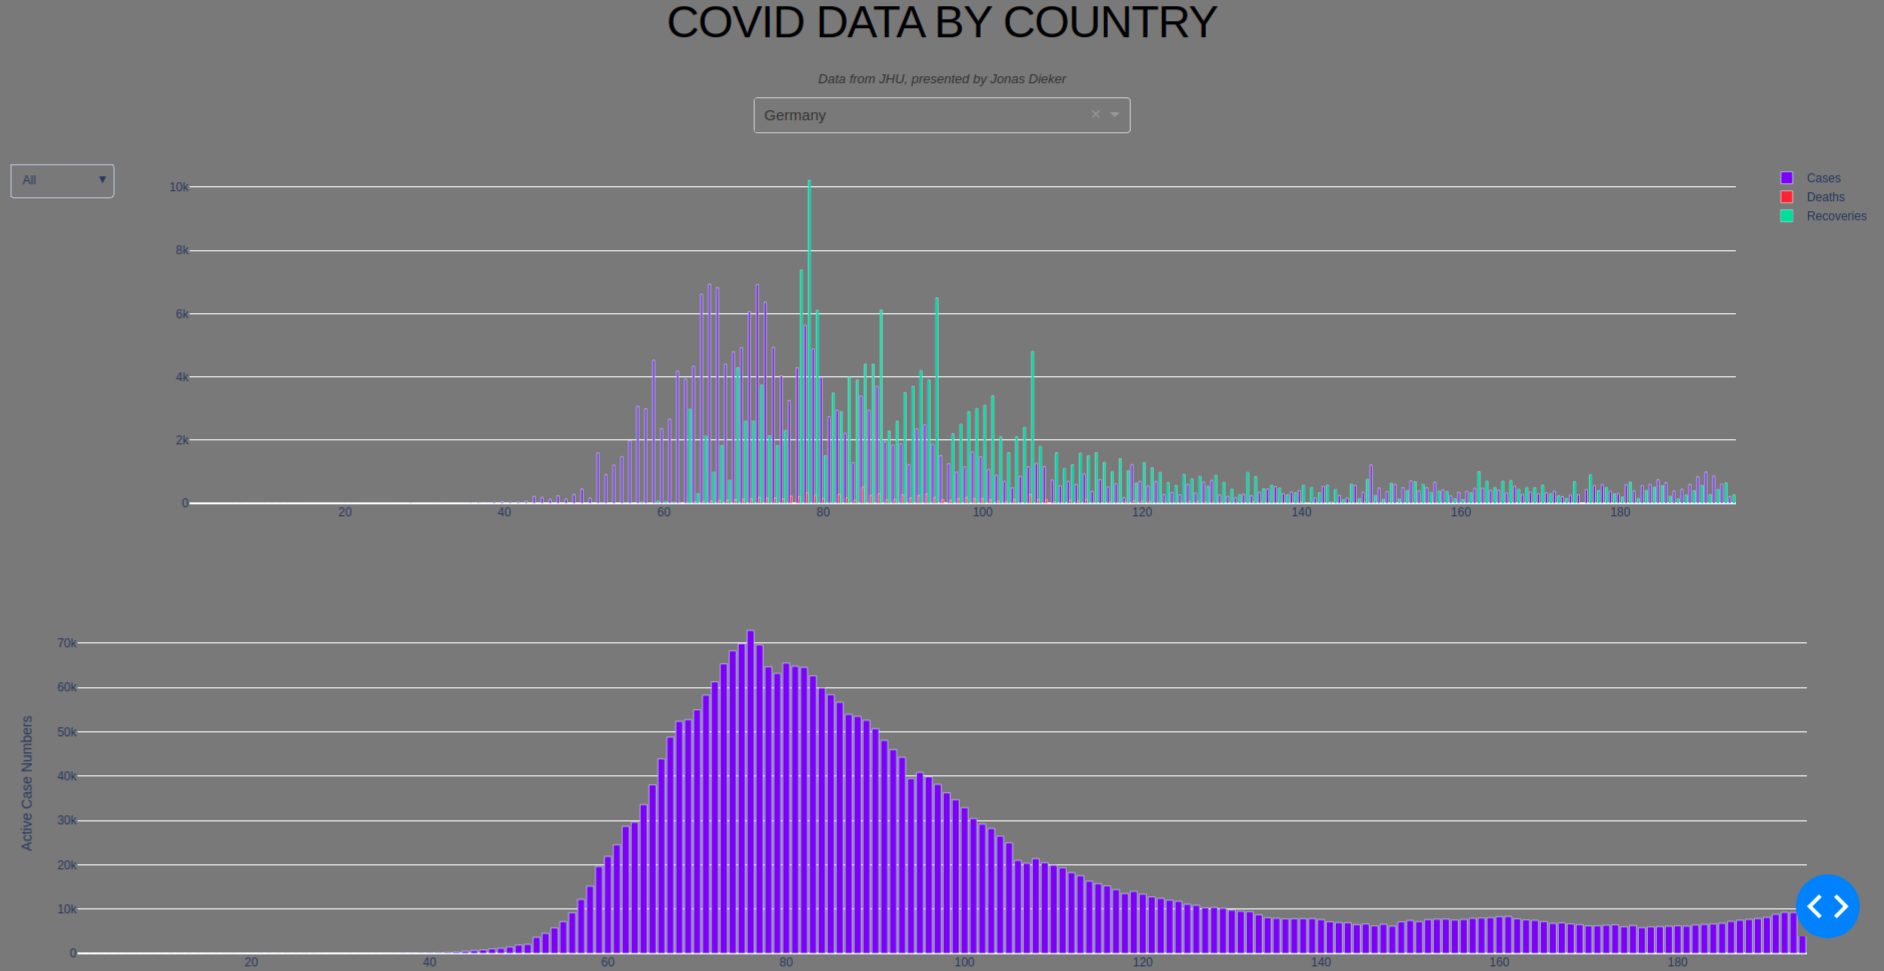
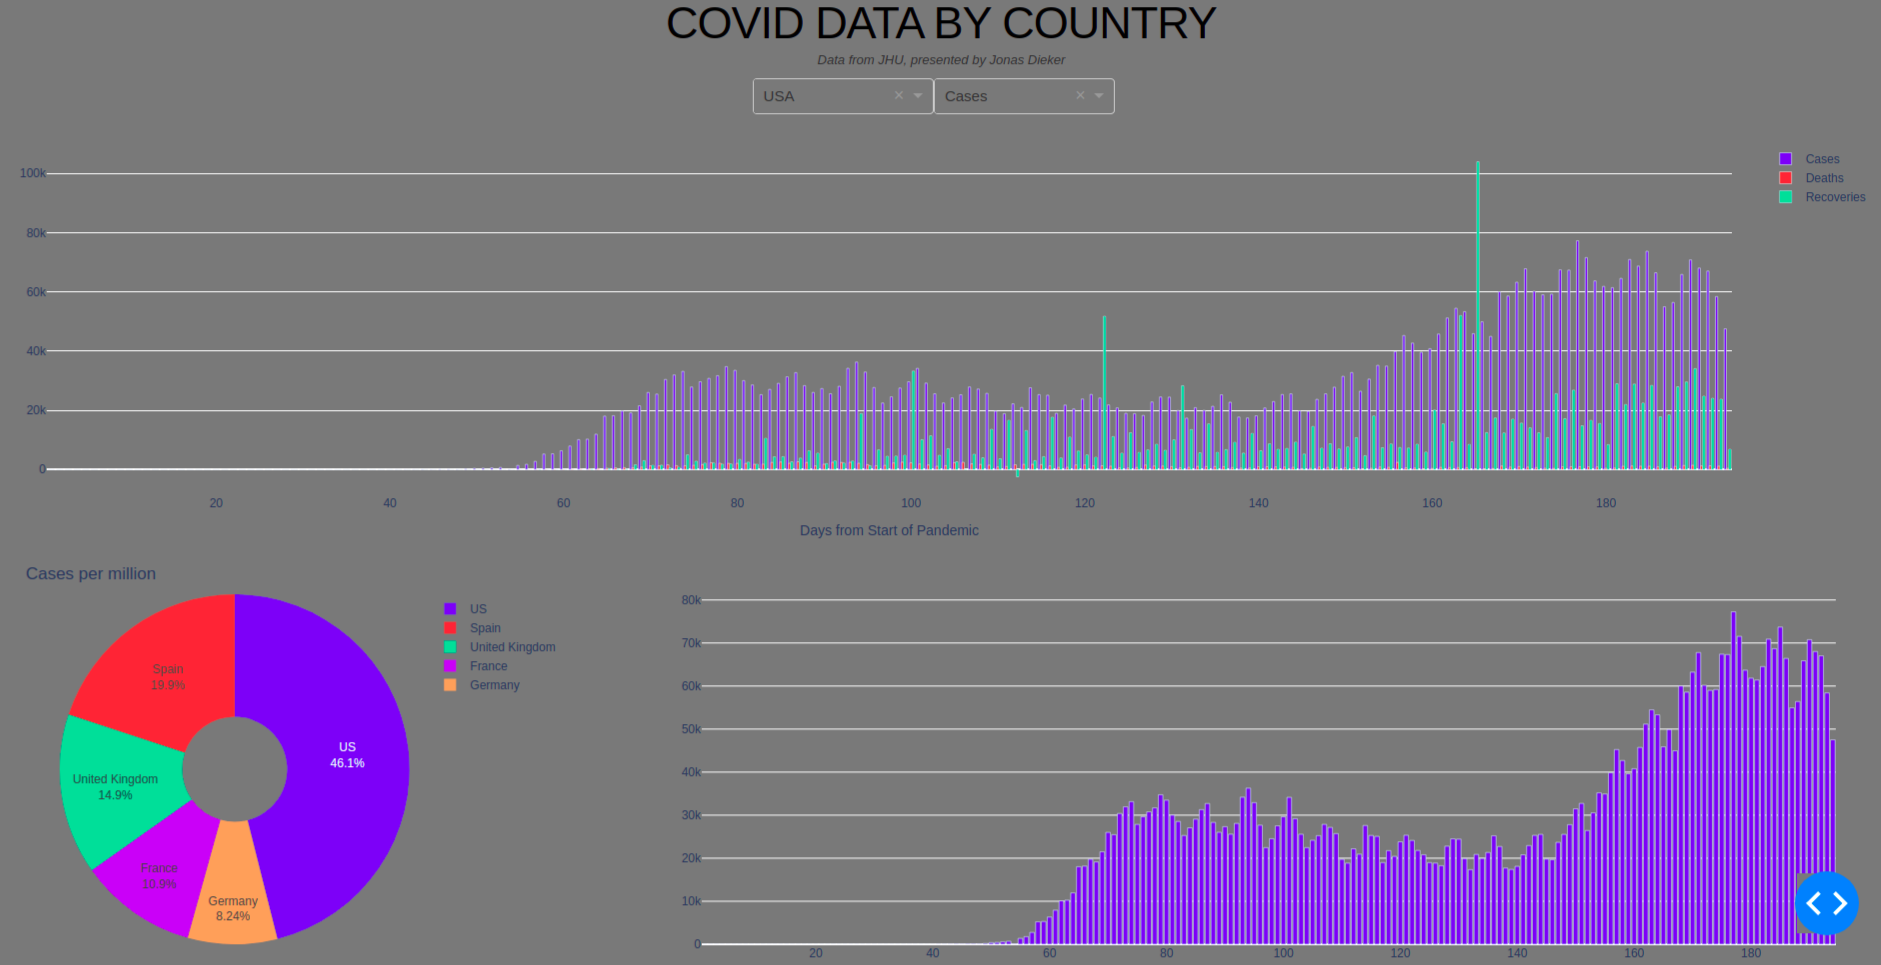
added pie chart and dropdown

diff --git a/assets/style.css b/assets/style.css
@@ -5,8 +5,8 @@ Div{
 H1{
 	text-align: center;
 	color: black;
-	margin-top: 20;
-	margin-bottom: 10;
+	margin-top: 10;
+	margin-bottom: 0;
 }
 
 P{

diff --git a/app.py b/app.py
@@ -2,11 +2,10 @@ import dash
 import pandas as pd
 import dash_core_components as dcc
 import dash_html_components as html
-import plotly.express as px
 import pandas as pd
 import plotly.graph_objects as go
 from dash.dependencies import Input, Output
-import json
+import numpy as np
 
 external_stylesheets = ['https://codepen.io/chriddyp/pen/bWLwgP.css']
 
@@ -18,21 +17,52 @@ data_deaths = pd.read_csv("https://github.com/CSSEGISandData/COVID-19/raw/master
 data_recovered = pd.read_csv("https://github.com/CSSEGISandData/COVID-19/raw/master/csse_covid_19_data/csse_covid_19_time_series/time_series_covid19_recovered_global.csv")
 
 # graph styling
-layout = go.Layout(paper_bgcolor='rgba(0,0,0,0)', plot_bgcolor='rgba(0,0,0,0)', margin=dict(t=30))
+layout = go.Layout(paper_bgcolor='rgba(0,0,0,0)', plot_bgcolor='rgba(0,0,0,0)', margin=dict(t=30, b=70, l=50, r=50))
+
+# test pie chart (static)
+pie_chart = go.Figure(layout=layout)
+labels = ['Germany', 'US', 'United Kingdom', 'France', 'Spain']
+population = [83.0, 328.2, 66.7, 67.0, 46.9]
+values = []
+for i, country in enumerate(labels):
+	cum_cases = data_cases.loc[data_cases["Country/Region"] == country].to_numpy()
+	value = 0
+	if len(cum_cases) > 1:
+		for j in range(len(cum_cases)):
+				value += cum_cases[j][-1]
+		values.append(round(value/population[i]))
+	else:
+		values.append(round(cum_cases[0][-1]/population[i]))
+pie_chart.add_trace(go.Pie(labels=labels, values=values, hole=0.3))
+pie_chart.update_layout(title='Cases per million', uniformtext_minsize=10, uniformtext_mode='hide')
+pie_chart.update_traces(textposition='inside', textinfo='percent+label')
 
 # html of dashboard
 app.layout = html.Div(
 	children=[
 			html.H1(children='COVID DATA BY COUNTRY'),
 			html.P(children='Data from JHU, presented by Jonas Dieker'),
-			dcc.Dropdown(className='selectDrop', id='dropdown',
-						options=[{'label': 'Germany', 'value': 'Germany'},
-								{'label': 'Austria', 'value': 'Austria'},
-								{'label': 'USA', 'value': 'US'}],
-								value='Germany'),
+			html.Div(className='selectDrop row', children=
+				[dcc.Dropdown(className='six columns', id='dropdown',
+							options=[{'label': 'Germany', 'value': 'Germany'},
+							{'label': 'USA', 'value': 'US'},
+							{'label': 'United Kingdom', 'value': 'United Kingdom'},
+							{'label': 'France', 'value': 'France'},
+							{'label': 'Spain', 'value': 'Spain'},],
+							value='Germany'),
+				dcc.Dropdown(className='six columns', id='dropdown2',
+							options=[{'label': 'Cases', 'value': 'cases'},
+							{'label': 'Deaths', 'value': 'deaths'},
+							{'label': 'Recoveries', 'value': 'recovered'},
+							{'label': 'Active Cases', 'value': 'active'}],
+							value='cases')
+				]),
 			#dcc.Slider(className='selectSlider', min=0, max=len(daily_cases), marks={i: 'Days {}'.format(i) for i in range(0, len(daily_cases), 10)}, value=len(daily_cases)),
-			dcc.Graph(id='corona', config={'displayModeBar': False}, animate=True, style={}),
-			dcc.Graph(id='active_cases', config={'displayModeBar': False}),
+			dcc.Graph(id='first_fig', config={'displayModeBar': False}),
+			html.Div(className='row', children=
+				[dcc.Graph(className='four columns', id='third_fig', figure=pie_chart, config={'displayModeBar': False}),
+				dcc.Graph(className='eight columns', id='second_fig', config={'displayModeBar': False})
+				]),
 			html.Div(id='intermediate-value', style={'display': 'none'}),
 ])
 
@@ -42,12 +72,20 @@ app.layout = html.Div(
 def clean_data(dropdown_value):
 
 	country = str(dropdown_value)
-	germany_cases = data_cases.loc[data_cases["Country/Region"] == country]
-	germany_deaths = data_deaths.loc[data_deaths["Country/Region"] == country]
-	germany_recovered = data_recovered.loc[data_recovered["Country/Region"] == country]
-	cases = germany_cases.to_numpy()[0][4:]
-	deaths = germany_deaths.to_numpy()[0][4:]
-	recovered = germany_recovered.to_numpy()[0][4:]
+	country_cases = data_cases.loc[data_cases["Country/Region"] == country].to_numpy()
+	country_deaths = data_deaths.loc[data_deaths["Country/Region"] == country].to_numpy()
+	country_recovered = data_recovered.loc[data_recovered["Country/Region"] == country].to_numpy()
+
+	data_items = len(country_cases[0][4:])
+	cases = np.zeros(data_items)
+	deaths = np.zeros(data_items)
+	recovered = np.zeros(data_items)
+
+	for i in range(0, len(country_cases)):
+		for j in range(4, len(country_cases[0])):
+			cases[j-4] += abs(country_cases[i][j])
+			deaths[j-4] += abs(country_deaths[i][j])
+			recovered[j-4] += abs(country_recovered[i][j])
 
 	# reformatting to daily data
 	daily_cases = [0]
@@ -67,7 +105,7 @@ def clean_data(dropdown_value):
 	return df.to_json()
 
 
-@app.callback(Output('corona', 'figure'), [Input('intermediate-value', 'children')])
+@app.callback(Output('first_fig', 'figure'), [Input('intermediate-value', 'children')])
 def update_figure1(jsonified_df):
 
 	df = pd.read_json(jsonified_df)
@@ -75,38 +113,20 @@ def update_figure1(jsonified_df):
 	fig.add_trace(go.Bar(x=df["days"], y=df["cases"],name="Cases"))
 	fig.add_trace(go.Bar(x=df["days"], y=df["deaths"],name="Deaths"))
 	fig.add_trace(go.Bar(x=df["days"], y=df["recovered"],name="Recoveries"))
+	fig.update_layout(xaxis_title="Days from Start of Pandemic")
 
-	fig.update_layout(updatemenus=[dict(
-			visible=True,
-			active=0,
-			buttons=list([
-				dict(label="All",
-					 method="update",
-					 args=[{"visible": [True, True, True]}]),
-				dict(label="Cases",
-					 method="update",
-					 args=[{"visible": [True, False, False]}]),
-				dict(label="Deaths",
-					 method="update",
-					 args=[{"visible": [False, True, False]}]),
-				dict(label="Recoveries",
-					 method="update",
-					 args=[{"visible": [False, False, True]}]),
-			]),
-		)
-	])
 	return fig
 
 
-@app.callback(Output('active_cases', 'figure'), [Input('intermediate-value', 'children')])
-def update_figure2(jsonified_df):
+@app.callback(Output('second_fig', 'figure'), [Input('intermediate-value', 'children'), Input('dropdown2', 'value')])
+def update_figure2(jsonified_df, type_data):
 
 	df = pd.read_json(jsonified_df)
-	fig2 = go.Figure(layout=layout)
-	fig2.add_trace(go.Bar(x=df["days"], y=df["active"], name="Active Cases"))
-	fig2.update_layout(xaxis_title="Days from Start of Pandemic", yaxis_title="Active Case Numbers")
+	fig = go.Figure(layout=layout)
+	fig.add_trace(go.Bar(x=df["days"], y=df[type_data], name="Active Cases"))
+	fig.update_layout(xaxis_title="Days from Start of Pandemic")
 
-	return fig2
+	return fig
 
 
 

diff --git a/README.md b/README.md
@@ -1,5 +1,5 @@
 # Covid Data Analysis for Germany
 
-Data from JHU's [Github](https://github.com/CSSEGISandData/COVID-19/tree/master/csse_covid_19_data/csse_covid_19_time_series)
+*Using data from JHU's [Github](https://github.com/CSSEGISandData/COVID-19/tree/master/csse_covid_19_data/csse_covid_19_time_series)*
 
 ![dashboard](/assets/dashboard.png)
